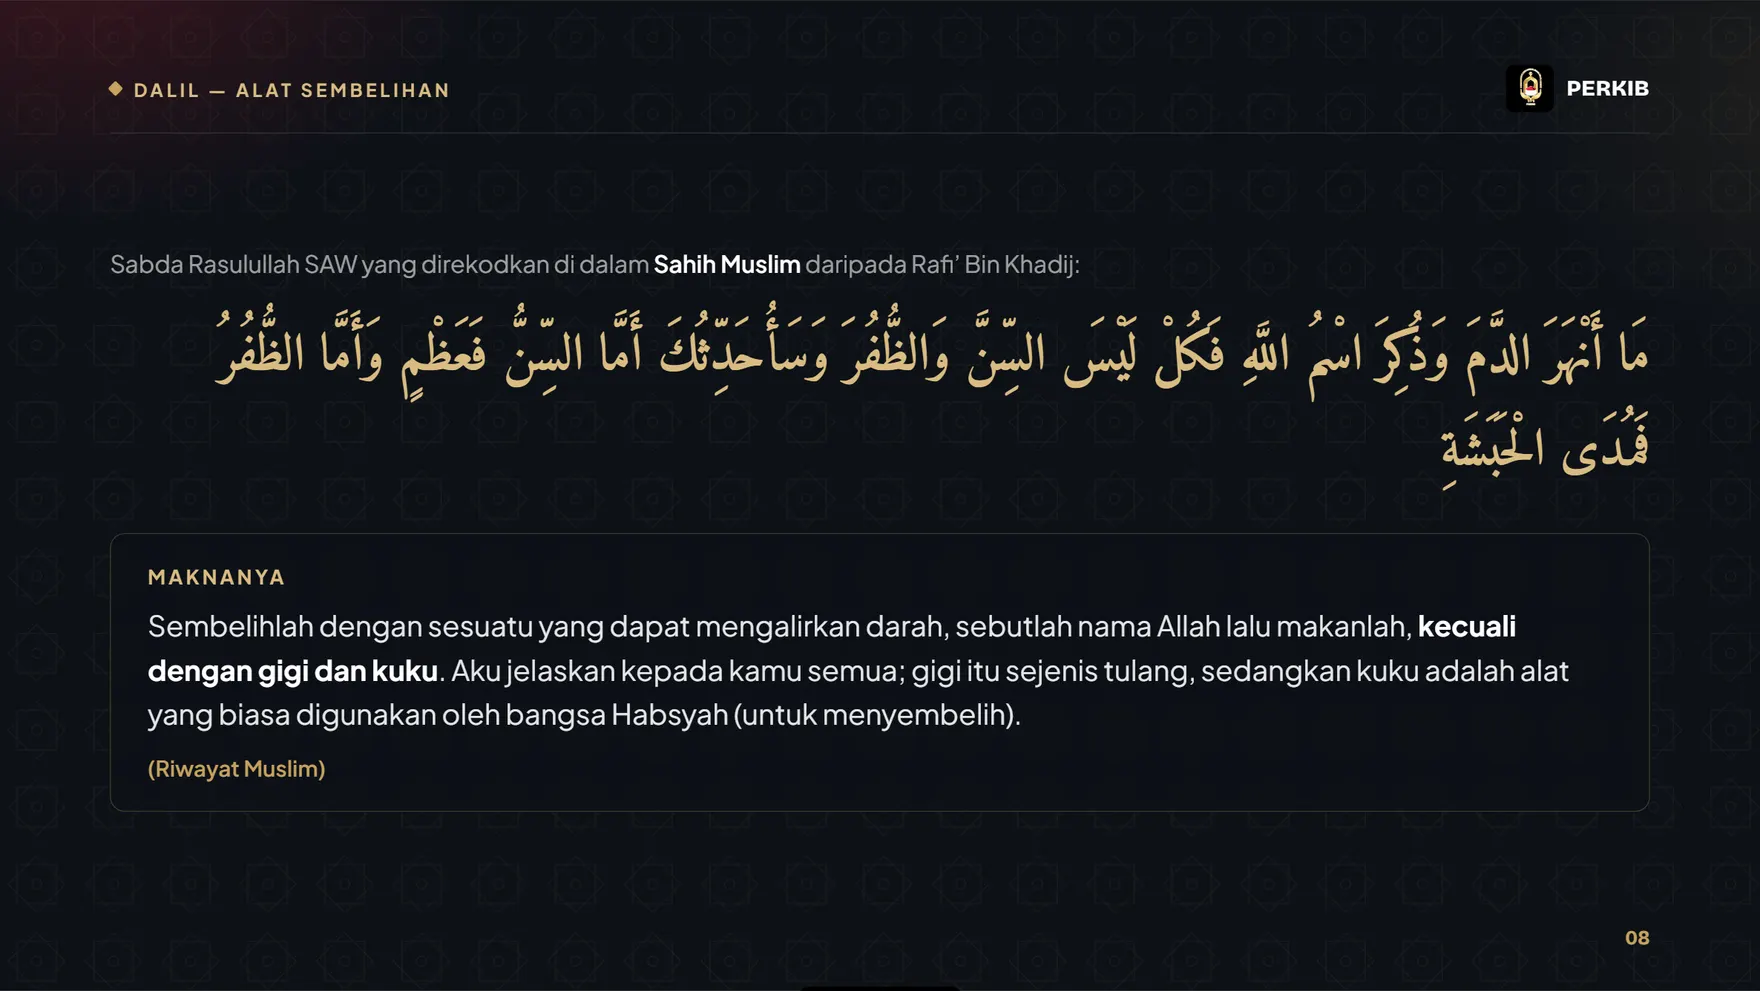
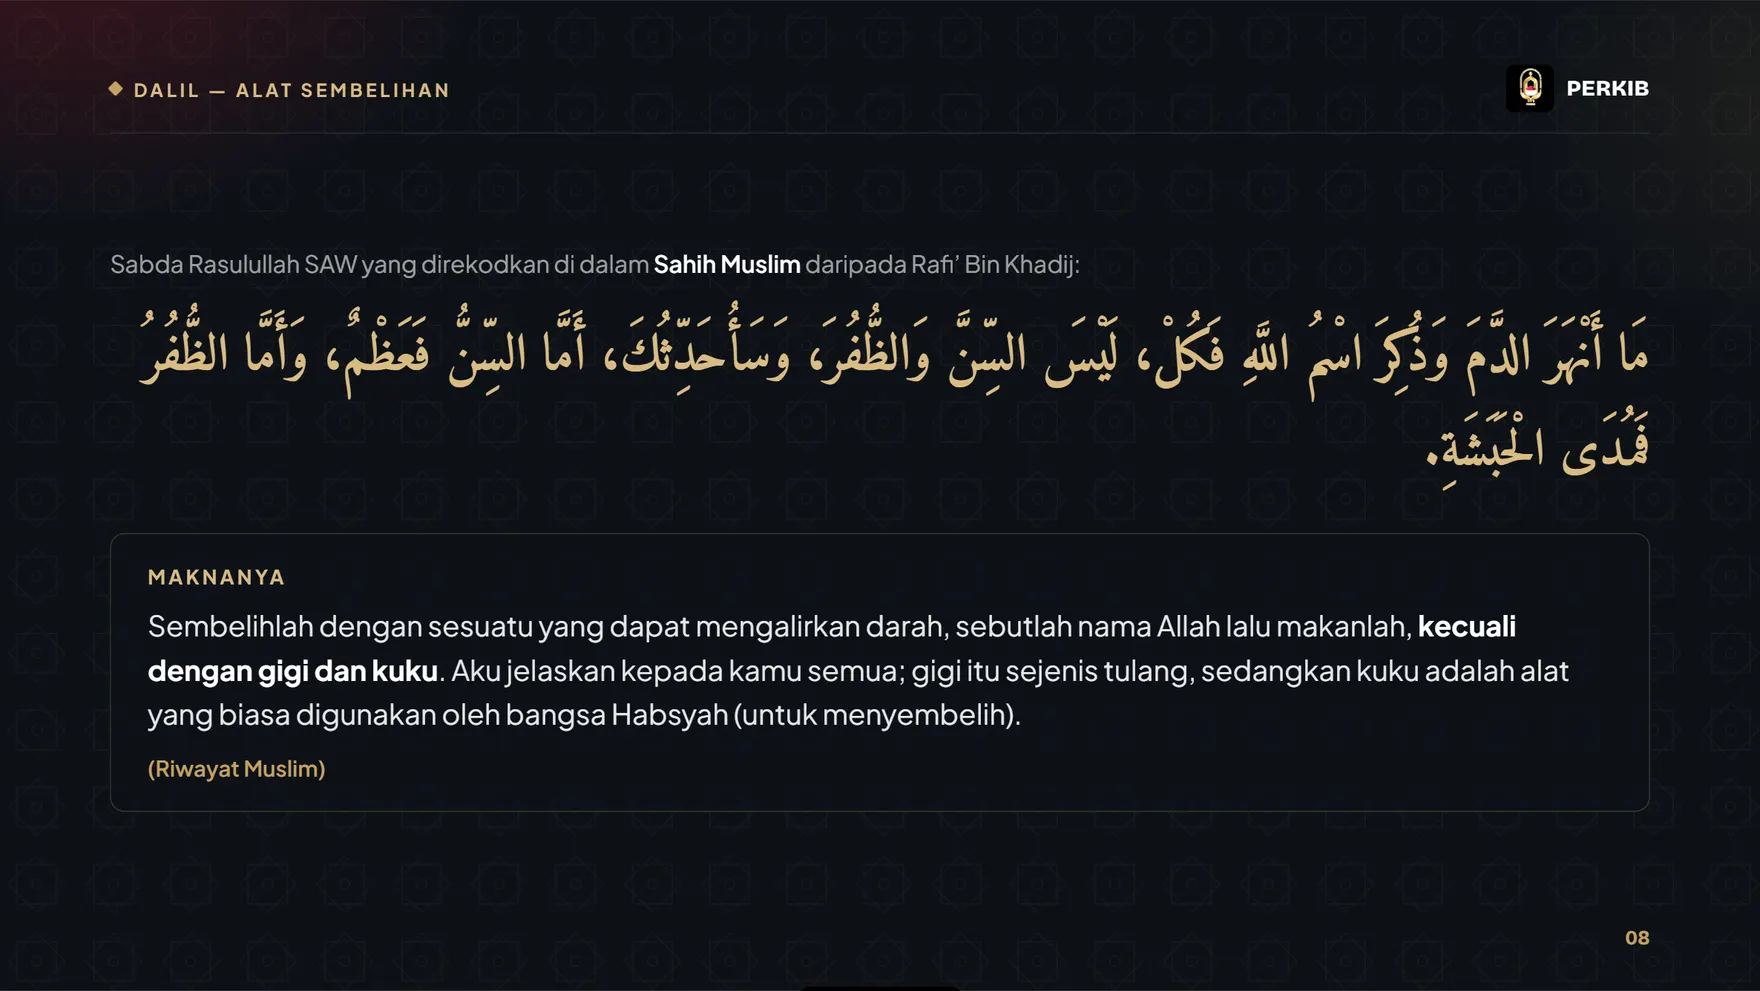
content(slide): ganti slaid 1, 8, 16, 53, 60 dengan versi terkini deck sumber
Pembetulan dari fail sumber baharu (PenyembelihanHalal-PERKIB.html):
- Slaid 1  : atribusi 'Disampaikan oleh Mohd Jabal B Abdul Rahim'
             -> 'Disediakan oleh Pertubuhan Kebajikan Imam dan Bilal MAIWP (PERKIB)'
- Slaid 8  : teks Arab hadith Rafi' bin Khadij - tanda baca + i'rab dibetulkan
             (fa'azmin -> fa'azmun, koma Arab ditambah)
- Slaid 16 : kalimah sembelihan
- Slaid 53 : hukum janin - petikan Sunan Abu Dawud
- Slaid 60 : penutup guna nama organisasi

Imej sahaja yang ditukar (5 fail webp) - tiada perubahan pada komponen,
animasi, video, susunan slaid atau navigasi. Ditangkap dengan kaedah sama
seperti v4.0 (navigasi deck + screenshot elemen section aktif 2560x1440,
sharp webp 1760 q78) supaya konsisten dengan 55 slaid yang lain.

Claude-Session: https://claude.ai/code/session_01MYrQed5hSZWm9v8Y4WBNRx

Changed region(s): [[0.0625, 0.3027, 0.6562, 0.3935]]

diff --git a/src/app/slide/sembelihan-2026/deck-data.tsx b/src/app/slide/sembelihan-2026/deck-data.tsx
@@ -1,4 +1,4 @@
-/* Slaid "Penyembelihan Halal" — modul latihan PERKIB (Mohd Jabal B Abdul Rahim).
+/* Slaid "Penyembelihan Halal" — modul latihan PERKIB.
    Setiap slaid dirender daripada deck asal (1920×1080 → webp) supaya paparan
    KEKAL SAMA seperti fail asal. Animasi galaxy/3D ialah pembalut sahaja. */
 
